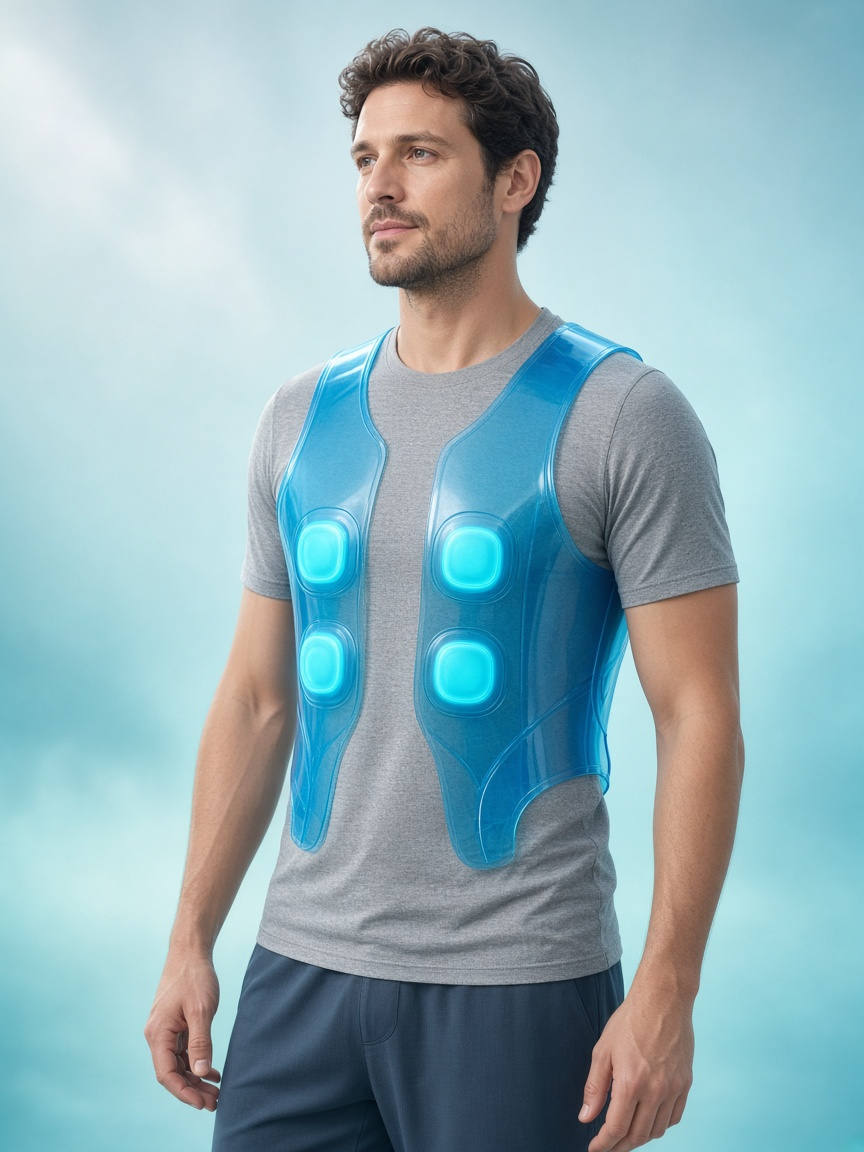
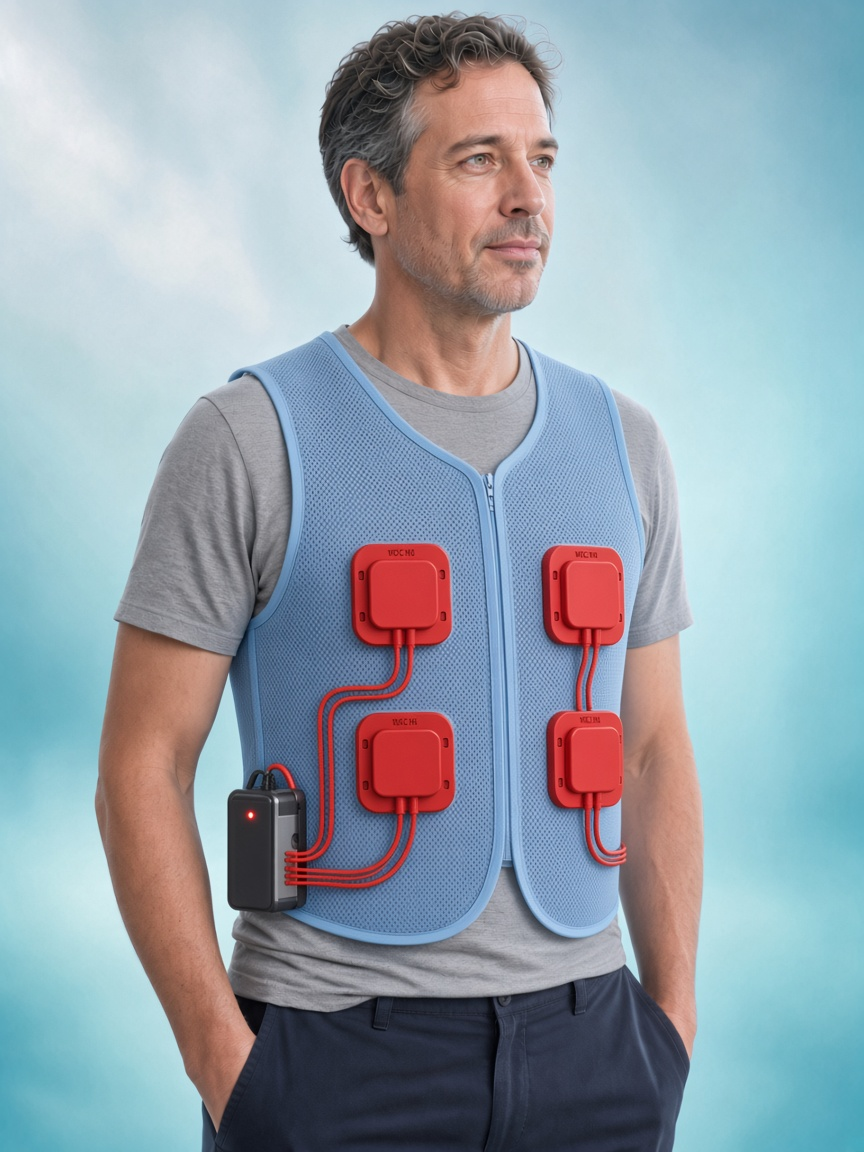
Sharpen buy-page worn vest: defined red hardware pads and Li-ion wires.
Replace vest-worn.png with a photoreal person wearing clear-edged red
actuator modules and red leads to a hip lithium pack. Keep worn view
overlay-free so baked hardware stays crisp next to the product ImageVest.

diff --git a/components/marketing/pricing-vest-stage.tsx b/components/marketing/pricing-vest-stage.tsx
@@ -13,8 +13,9 @@ type VestView = "product" | "worn";
 
 /**
  * Packages / Calm+ buy stage: person-wearing-vest by default + product
- * image vest (rotate, red actuators/wiring). Image agent may replace
- * `public/images/vest-worn.png` / WornVestStage assets.
+ * image vest (rotate, red actuators/wiring). Worn view uses vest-worn.png
+ * with baked defined red hardware pads + red wires to Li-ion (no soft
+ * SVG overlays). Image agent may replace that asset in place.
  */
 export function PricingVestStage({ label }: PricingVestStageProps) {
   const t = useTranslations("vest");
@@ -68,7 +69,7 @@ export function PricingVestStage({ label }: PricingVestStageProps) {
         {view === "product" ? (
           <ImageVest label={label} showHotspots />
         ) : (
-          <WornVestStage label={t("wornLabel")} showWiring />
+          <WornVestStage label={t("wornLabel")} showWiring={false} />
         )}
       </div>
     </div>

diff --git a/components/marketing/worn-vest-stage.tsx b/components/marketing/worn-vest-stage.tsx
@@ -15,7 +15,8 @@ type WornVestStageProps = {
  * Buy-page “person wearing vest” stage.
  *
  * IMAGE AGENT HOOK — replace `public/images/vest-worn.png`. Prefer assets
- * that already include red hardware pads/wiring; otherwise overlays draw them.
+ * with defined red hardware pads + red wires to Li-ion (clear edges, not
+ * soft glow). Set showWiring when the file lacks baked power hardware.
  */
 export function WornVestStage({
   label,
